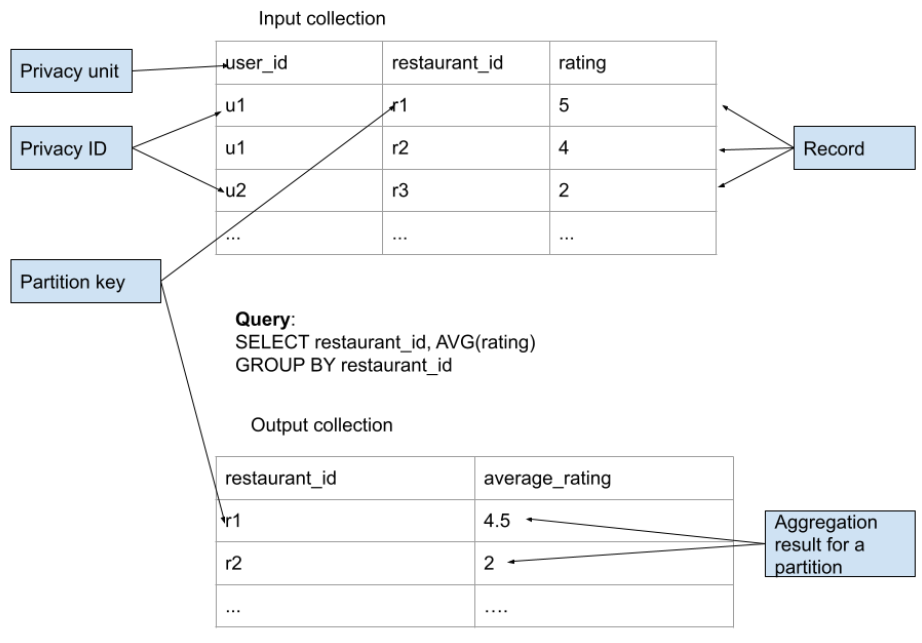
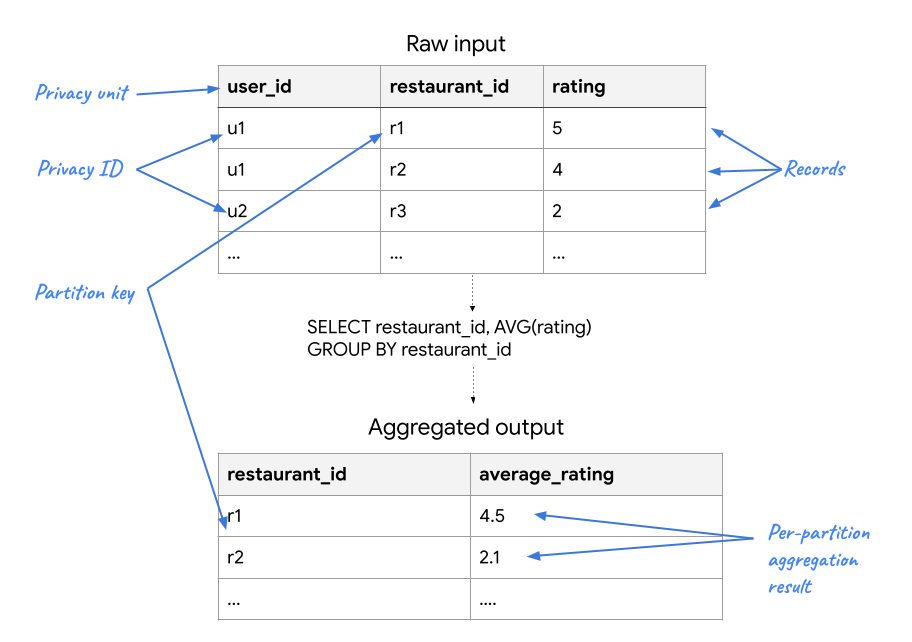
Updating the key definitions illustration

diff --git a/key-definitions.md b/key-definitions.md
@@ -6,6 +6,8 @@ description: >-
   documentation.
 ---
 
+A simplified visual summary of some key concepts we use in PipelineDP:
+
 ![image](terminology.png)
 
 A *record* is an element in the input dataset.
